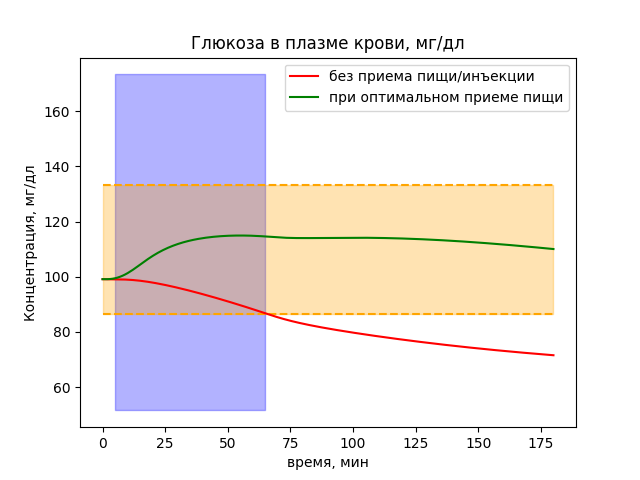
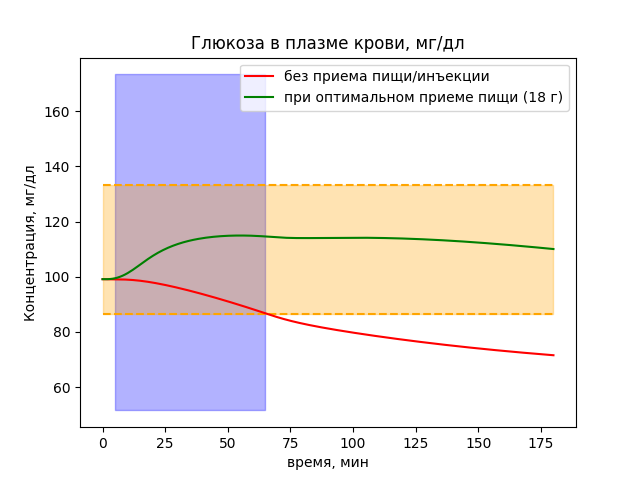
Fixed labels on graphs

Changed region(s): [[0.375, 0.125, 0.875, 0.25]]

diff --git a/model.py b/model.py
@@ -252,7 +252,7 @@ CONTROL_CASES = {
         'Gp0': 5.5,
         'Dvals': [0, 18000],
         'Ivals': [0, 0],
-        'labels': ['без приема пищи/инъекции', 'при оптимальном приеме пищи'],
+        'labels': ['без приема пищи/инъекции', 'при оптимальном приеме пищи (18 г)'],
         'colors': ['red', 'green'],
         'linestyles': ['solid','solid'],
         'time': 180
@@ -262,7 +262,7 @@ CONTROL_CASES = {
         'Gp0': 4.2,
         'Dvals': [0, 24000, 48000, 9000],
         'Ivals': [0, 0, 0, 0],
-        'labels': ['без приема пищи/инъекции', 'при оптимальном приеме пищи', 'при переедании', 'при недоедании'],
+        'labels': ['без приема пищи/инъекции', 'при оптимальном приеме пищи (24 г)', 'при переедании (48 г)', 'при недоедании (9 г)'],
         'colors': ['red', 'green', 'black', 'purple'],
         'linestyles': ['solid','solid','dashed','dotted'],
         'time': 180
@@ -272,7 +272,7 @@ CONTROL_CASES = {
         'Gp0': 17.0,
         'Dvals': [0, 0, 0, 0],
         'Ivals': [0, 0.32, 1, 0.1],
-        'labels': ['без приема пищи/инъекции', 'при оптимальной инъекции', 'при передозировке инсулина', 'при недостатке инсулина)'],
+        'labels': ['без приема пищи/инъекции', 'при оптимальной инъекции (0.32 ед)', 'при передозировке инсулина (1 ед)', 'при недостатке инсулина (0.1 ед)'],
         'colors': ['red', 'blue', 'black', 'purple'],
         'linestyles': ['solid','solid', 'dashed','dotted'],
         'time': 180
